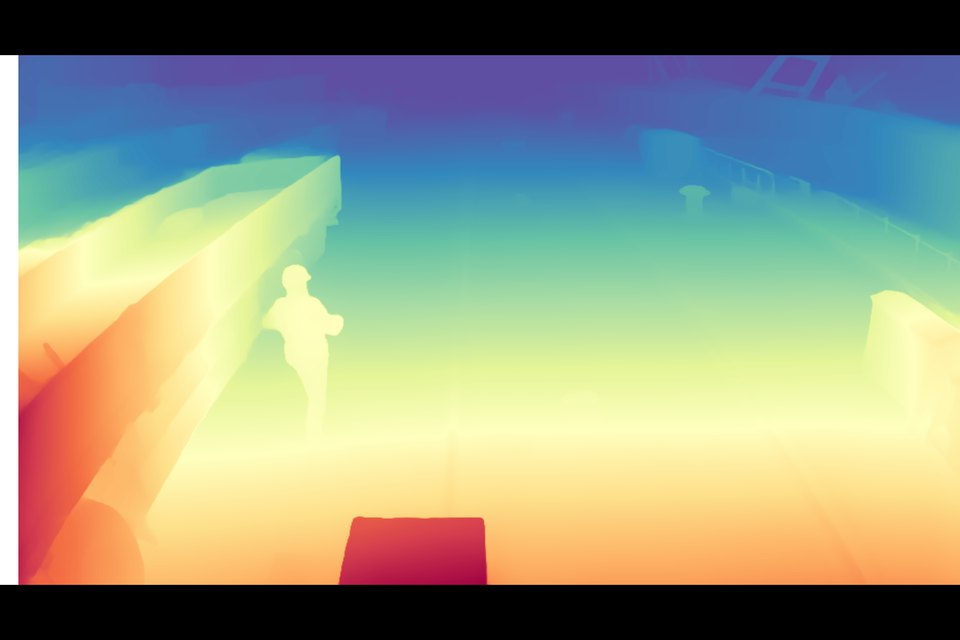
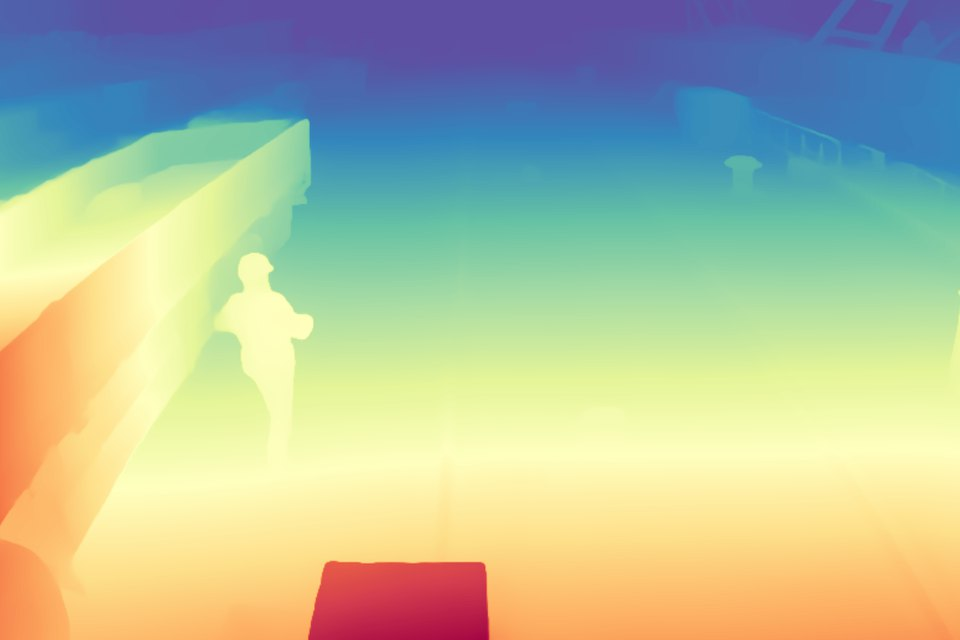
Move Education under bio with school crests; add earlier experience and honors

diff --git a/index.html b/index.html
@@ -23,9 +23,9 @@
     <a class="name" href="#top">Yifan Hu</a>
     <nav>
       <a href="#about">About</a>
+      <a href="#education">Education</a>
       <a href="#experience">Experience</a>
       <a href="#projects">Projects</a>
-      <a href="#education">Education</a>
       <a class="cv" href="Yifan_Hu_Resume.pdf" target="_blank" rel="noopener">CV</a>
     </nav>
   </div>
@@ -53,6 +53,34 @@
     <p>Before Penn, I received a B.S. in Mathematics with a minor in Computer Science from New York University, graduating summa cum laude with the George Bachman Award in Mathematics. I began my undergraduate studies in financial engineering at Guangdong University of Foreign Studies before transferring to NYU.</p>
     <p class="open">I am open to research collaborations and internships in robot learning. Feel free to reach out at <a href="mailto:hu5@engineering.upenn.edu">hu5@engineering.upenn.edu</a>.</p>
   </section>
+
+  <h2 id="education">Education</h2>
+  <div class="edu">
+    <div class="school">
+      <img class="crest" src="assets/img/logo-penn.svg" alt="University of Pennsylvania shield" width="52" height="52">
+      <div class="sb">
+        <div class="top"><h3>University of Pennsylvania</h3><span class="d">Sept 2025 – May 2027 (expected)</span></div>
+        <p class="deg">M.S.E. in Data Science and Artificial Intelligence</p>
+        <p class="s">GPA 3.94 / 4.0</p>
+      </div>
+    </div>
+    <div class="school">
+      <img class="crest block" src="assets/img/logo-nyu.svg" alt="New York University logo" width="52" height="52">
+      <div class="sb">
+        <div class="top"><h3>New York University</h3><span class="d">Sept 2023 – May 2025</span></div>
+        <p class="deg">B.S. in Mathematics, Minor in Computer Science, Summa Cum Laude</p>
+        <p class="s">GPA 3.96 / 4.0 · George Bachman Award in Mathematics · Dean's List</p>
+      </div>
+    </div>
+    <div class="school">
+      <img class="crest" src="assets/img/logo-gdufs.svg" alt="Guangdong University of Foreign Studies emblem" width="52" height="52">
+      <div class="sb">
+        <div class="top"><h3>Guangdong University of Foreign Studies</h3><span class="d">Sept 2020 – Jul 2023</span></div>
+        <p class="deg">Financial Engineering, transferred to NYU</p>
+        <p class="s">GPA 3.88 / 4.0 · First-Class Scholarship · MCM/ICM Honorable Mention (2022)</p>
+      </div>
+    </div>
+  </div>
 
   <h2 id="experience">Experience</h2>
 
@@ -95,6 +123,18 @@
     </div>
   </article>
 
+  <div class="minor">
+    <h4>Earlier experience</h4>
+    <div class="mi">
+      <div class="top"><p><b>Sichuan Haizi Investment Management</b> · Quantitative Analyst Intern</p><span class="d">Jul – Sep 2024</span></div>
+      <p class="desc">Leakage-safe time-series forecasting for U.S. equities; benchmarked LSTM and Temporal Fusion Transformer models with walk-forward validation, and turned forecasts into risk-aware position sizing.</p>
+    </div>
+    <div class="mi">
+      <div class="top"><p><b>ByteDance</b> · Business Analysis Intern</p><span class="d">Jun – Aug 2022</span></div>
+      <p class="desc">Built CTR, engagement and conversion dashboards for the beauty category and ran A/B tests on content recommendation, lifting core campaign CTR by 20%.</p>
+    </div>
+  </div>
+
   <h2 id="projects">Projects</h2>
   <div class="projects">
     <div class="proj"><h3><a href="https://github.com/Evan715823/cheatsheet-generator-skill" target="_blank" rel="noopener">cheatsheet-generator-skill</a><span>★ 191</span></h3><p>Turn course slides and PDFs into dense, exam-ready LaTeX cheatsheets. A Claude Code skill with a browser-based editor.</p></div>
@@ -105,15 +145,6 @@
     <div class="proj"><h3><a href="https://github.com/Evan715823/Claude-bar-for-linux" target="_blank" rel="noopener">Claude Pixel Bar</a><span>GNOME extension</span></h3><p>Claude Code usage limits as a pixel-art widget in the GNOME top bar.</p></div>
   </div>
 
-  <h2 id="education">Education</h2>
-  <div class="edu">
-    <div><b>University of Pennsylvania</b> — M.S.E. in Data Science and Artificial Intelligence</div><div class="d">Sept 2025 – May 2027 (expected)</div>
-    <div class="s">GPA 3.94 / 4.0</div>
-    <div><b>New York University</b> — B.S. in Mathematics, Minor in Computer Science, Summa Cum Laude</div><div class="d">Sept 2023 – May 2025</div>
-    <div class="s">GPA 3.96 / 4.0 · George Bachman Award in Mathematics · Dean's List</div>
-    <div><b>Guangdong University of Foreign Studies</b> — Financial Engineering, transferred to NYU</div><div class="d">Sept 2020 – Jul 2023</div>
-    <div class="s">GPA 3.88 / 4.0</div>
-  </div>
 
   <footer><span>© 2026 Yifan Hu</span><span><a href="mailto:hu5@engineering.upenn.edu">hu5@engineering.upenn.edu</a></span></footer>
 </main>

diff --git a/assets/style.css b/assets/style.css
@@ -62,6 +62,17 @@ h2 { font-size: 13px; font-weight: 600; letter-spacing: .12em; text-transform: u
 .entry p:not(.meta):not(.el) { font-size: 15px; line-height: 1.6; margin-top: 10px; color: var(--body); }
 .el { margin-top: 10px; font-size: 13.5px; font-weight: 500; display: flex; flex-wrap: wrap; gap: 16px; }
 
+/* earlier experience */
+.minor { padding-top: 22px; }
+.minor h4 { font-size: 12.5px; font-weight: 600; letter-spacing: .08em; text-transform: uppercase; color: var(--sec); margin-bottom: 4px; }
+.mi { padding: 12px 0; }
+.mi + .mi { border-top: 1px solid var(--rule); }
+.mi .top { display: flex; justify-content: space-between; align-items: baseline; gap: 16px; }
+.mi .top p { font-size: 15px; color: var(--body); }
+.mi .top b { color: var(--ink); font-weight: 600; }
+.mi .d { color: var(--sec); font-size: 13.5px; white-space: nowrap; }
+.mi .desc { font-size: 14px; color: #3a3a3f; line-height: 1.55; margin-top: 4px; max-width: 700px; }
+
 /* projects */
 .projects { display: grid; grid-template-columns: 1fr 1fr; gap: 0 40px; }
 .proj { padding: 18px 0; border-bottom: 1px solid var(--rule); }
@@ -71,9 +82,16 @@ h2 { font-size: 13px; font-weight: 600; letter-spacing: .12em; text-transform: u
 .proj p { font-size: 14px; color: #3a3a3f; line-height: 1.55; margin-top: 5px; }
 
 /* education */
-.edu { display: grid; grid-template-columns: 1fr auto; gap: 6px 24px; font-size: 15px; padding-top: 18px; }
-.edu .d { color: var(--sec); font-size: 13.5px; text-align: right; padding-top: 2px; white-space: nowrap; }
-.edu .s { color: var(--sec); font-size: 14px; grid-column: 1 / -1; margin-top: -2px; margin-bottom: 8px; }
+.edu { padding-top: 2px; }
+.school { display: grid; grid-template-columns: 52px 1fr; gap: 22px; align-items: center; padding: 20px 0; border-bottom: 1px solid var(--rule); }
+.school:last-child { border-bottom: 0; }
+.crest { width: 52px; height: 52px; object-fit: contain; }
+.crest.block { width: 44px; height: 44px; margin: 4px; border-radius: 7px; }
+.school .top { display: flex; justify-content: space-between; align-items: baseline; gap: 16px; }
+.school h3 { font-family: var(--serif); font-size: 18.5px; font-weight: 600; letter-spacing: -.005em; line-height: 1.25; }
+.school .d { color: var(--sec); font-size: 13.5px; white-space: nowrap; }
+.school .deg { font-size: 15px; color: var(--body); margin-top: 3px; line-height: 1.45; }
+.school .s { font-size: 13.5px; color: var(--sec); margin-top: 3px; }
 
 footer { margin-top: 64px; padding-top: 18px; border-top: 1px solid var(--rule); font-size: 12.5px; color: var(--sec); display: flex; justify-content: space-between; }
 footer a { color: var(--sec); }
@@ -92,7 +110,7 @@ body.lb-open { overflow: hidden; }
 @media (max-width: 640px) {
   .topbar .in { padding: 0 18px; }
   .topbar nav a { margin-left: 14px; font-size: 13px; }
-  .topbar nav a:not(.cv):nth-child(-n+1), .topbar nav a:not(.cv):nth-child(4) { display: none; }
+  .topbar nav a:not(.cv):nth-child(-n+2) { display: none; }
   .wrap { padding: 40px 18px 56px; }
   header { grid-template-columns: 1fr; gap: 22px; }
   header img { order: -1; width: 128px; height: 128px; }
@@ -101,7 +119,9 @@ body.lb-open { overflow: hidden; }
   .entry { grid-template-columns: 1fr; gap: 14px; }
   .thumb { width: 100%; }
   .projects { grid-template-columns: 1fr; }
-  .edu { grid-template-columns: 1fr; }
-  .edu .d { text-align: left; padding-top: 0; }
+  .school { grid-template-columns: 40px 1fr; gap: 16px; align-items: start; }
+  .crest { width: 40px; height: 40px; }
+  .crest.block { width: 34px; height: 34px; margin: 3px; border-radius: 6px; }
+  .school .top, .mi .top { flex-direction: column; gap: 2px; }
   .lb-close { right: 0; top: -42px; }
 }
